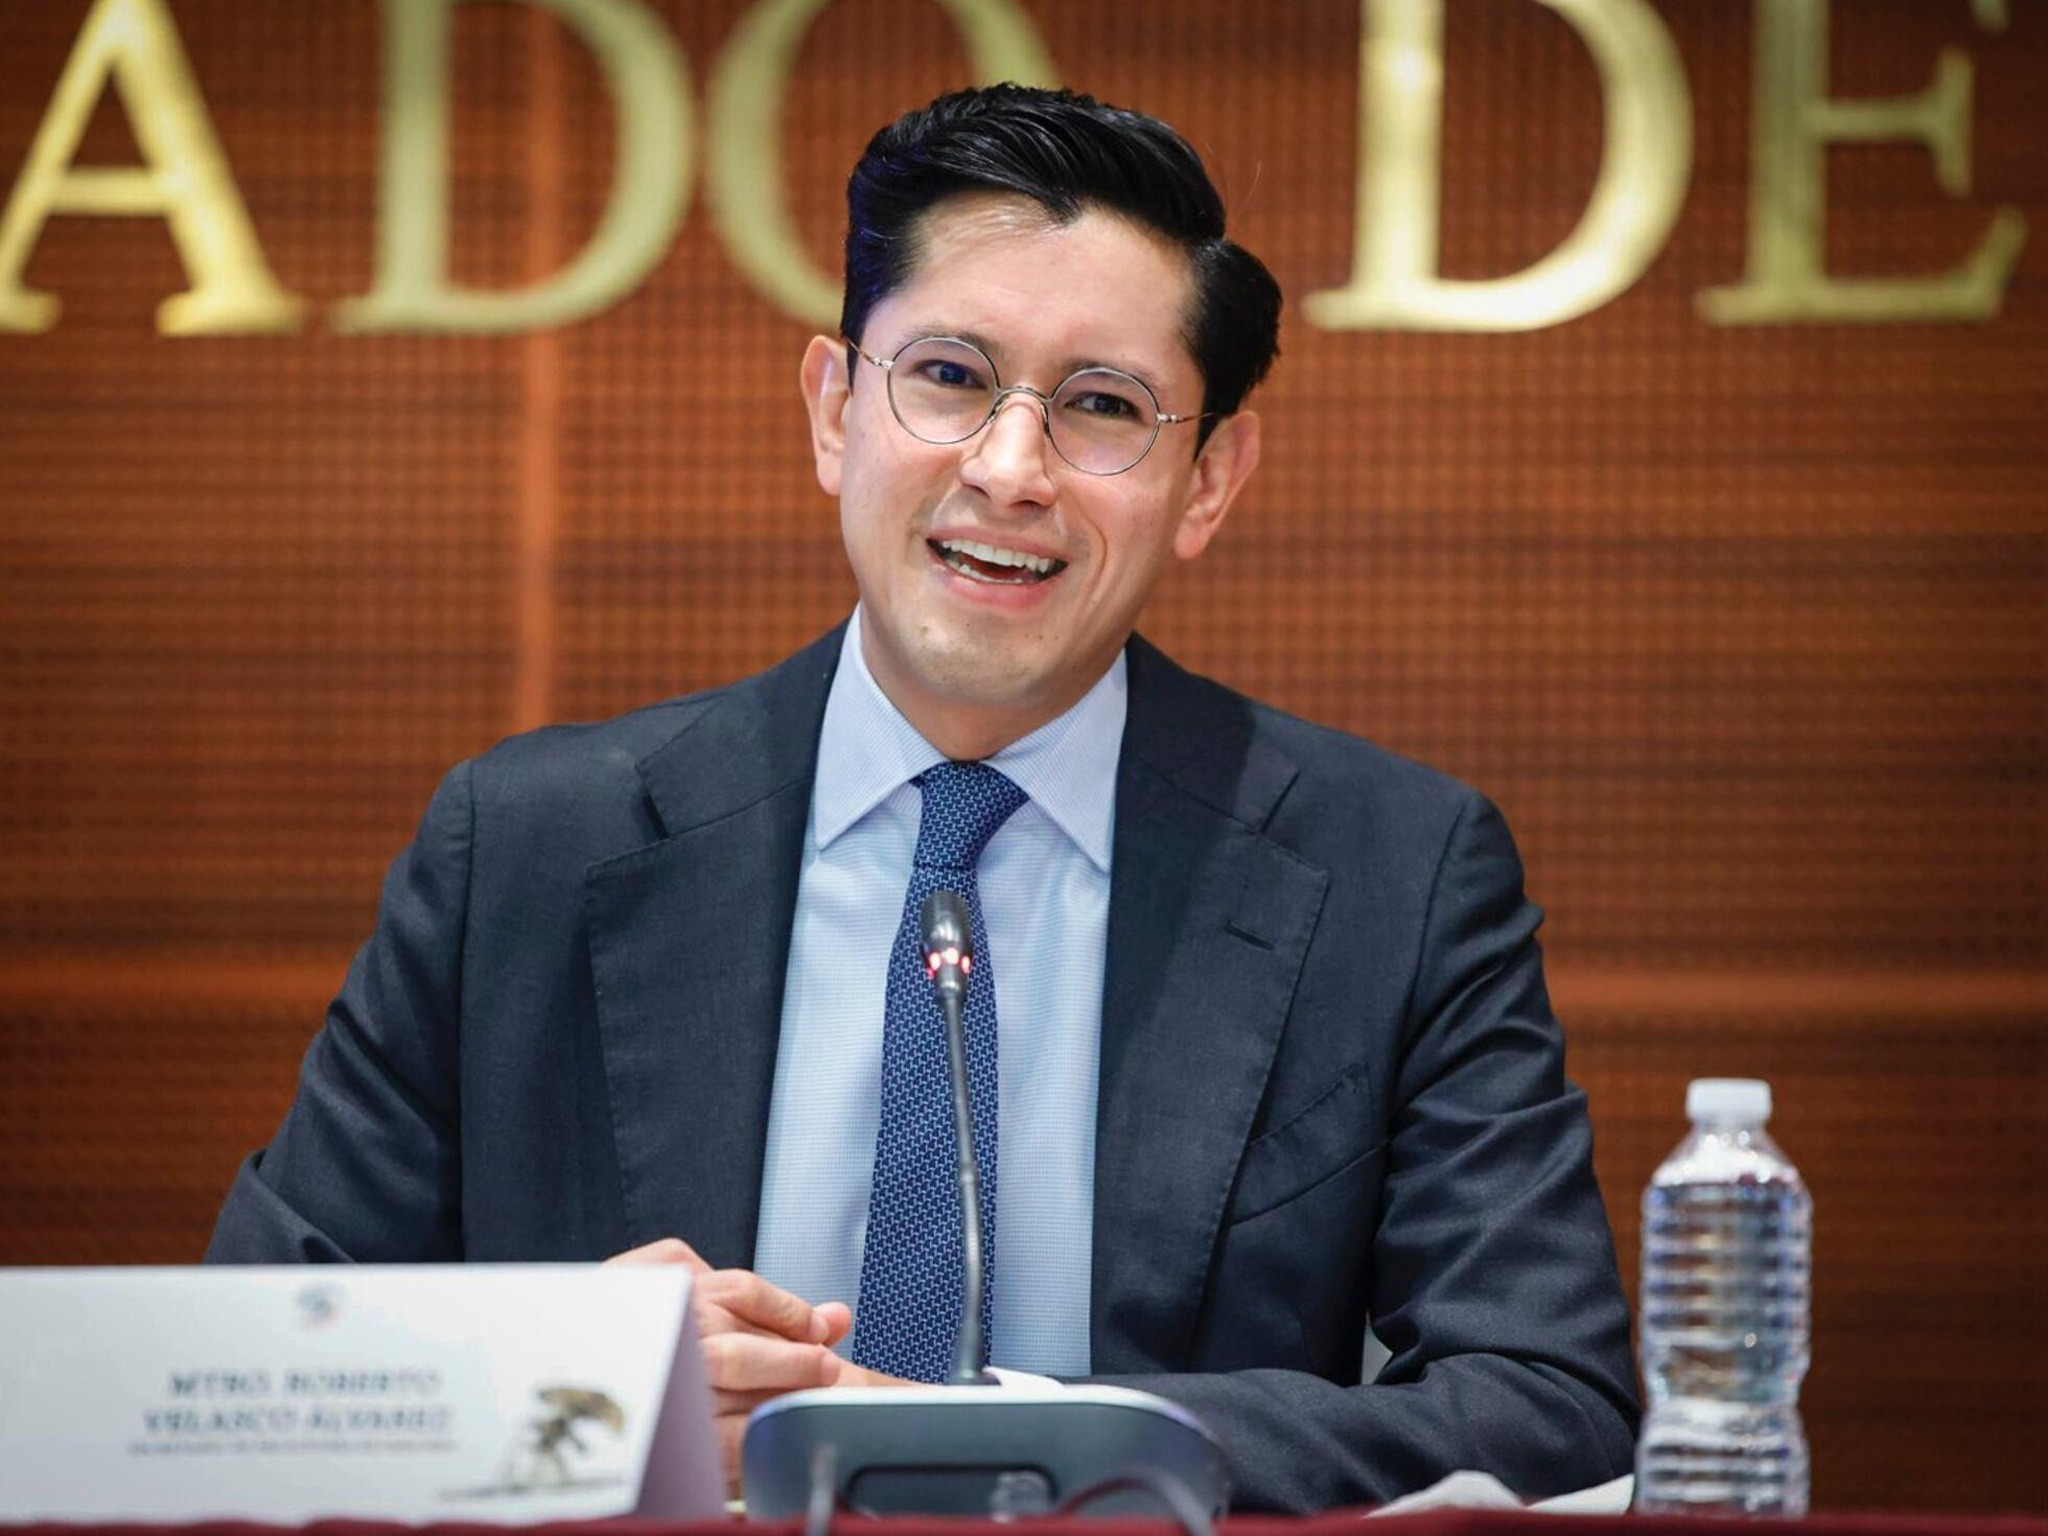
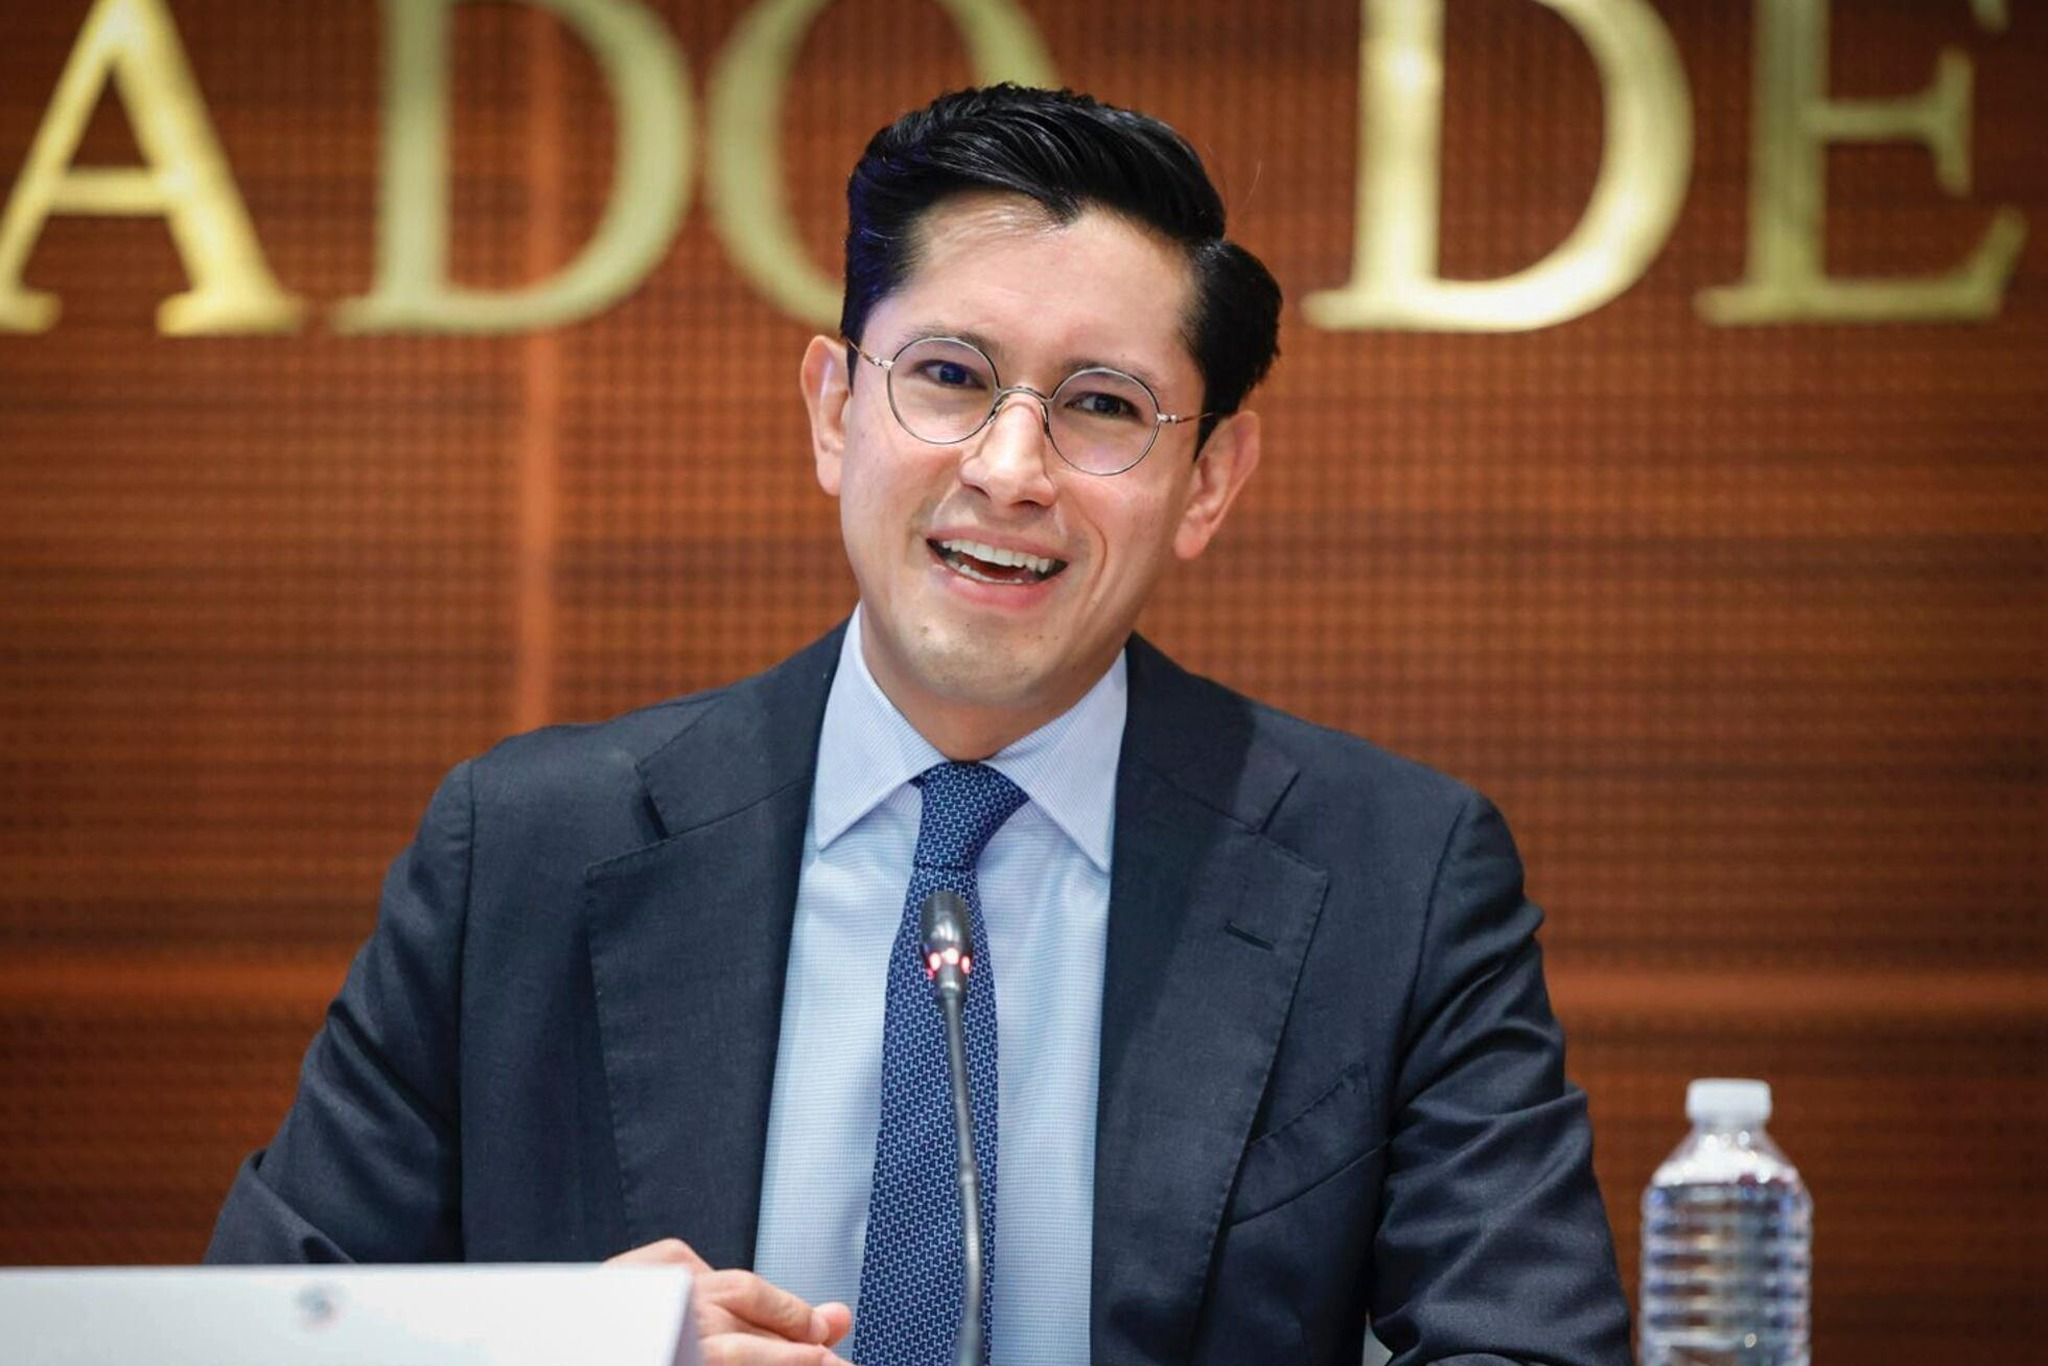
Crop Mexico-US security dialogue featured to 3:2 (keep top)

diff --git a/translations/2026-06-12-mexico-us-security-dialogue/article.html b/translations/2026-06-12-mexico-us-security-dialogue/article.html
@@ -1,5 +1,5 @@
-<!-- wp:image {"id":17060,"sizeSlug":"large"} -->
-<figure class="wp-block-image size-large"><img src="https://mexicosolidarity.com/wp-content/uploads/2026/06/2026-06-12-mexico-us-security-dialogue-large.jpg" alt="The Mexican delegation will be led by Foreign Affairs Secretary Roberto Velasco, along with representatives from the Attorney General's Office, Citizen Security, Defense, Navy, and National Guard." class="wp-image-17060"/><figcaption class="wp-element-caption">Photo: Marco Peláez</figcaption></figure>
+<!-- wp:image {"id":17062,"sizeSlug":"large"} -->
+<figure class="wp-block-image size-large"><img src="https://mexicosolidarity.com/wp-content/uploads/2026/06/2026-06-12-mexico-us-security-dialogue-large.jpg" alt="The Mexican delegation will be led by Foreign Affairs Secretary Roberto Velasco, along with representatives from the Attorney General's Office, Citizen Security, Defense, Navy, and National Guard." class="wp-image-17062"/><figcaption class="wp-element-caption">Photo: Marco Peláez</figcaption></figure>
 <!-- /wp:image -->
 
 <!-- wp:paragraph -->
